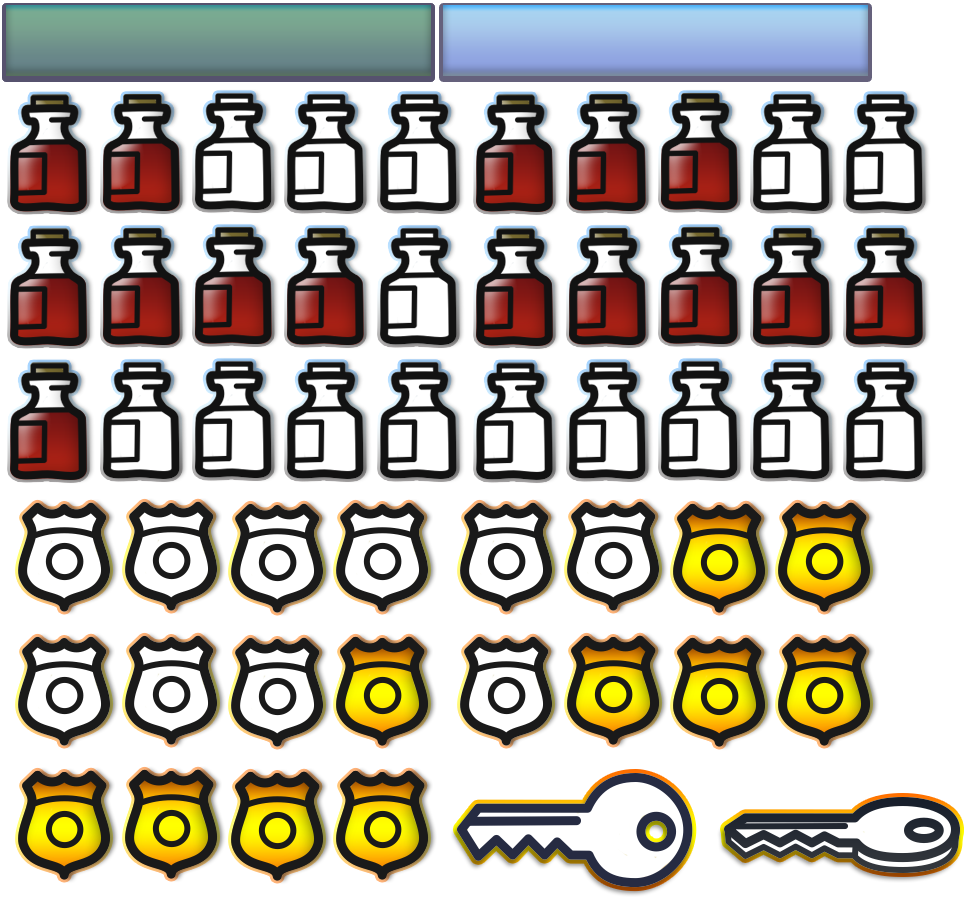
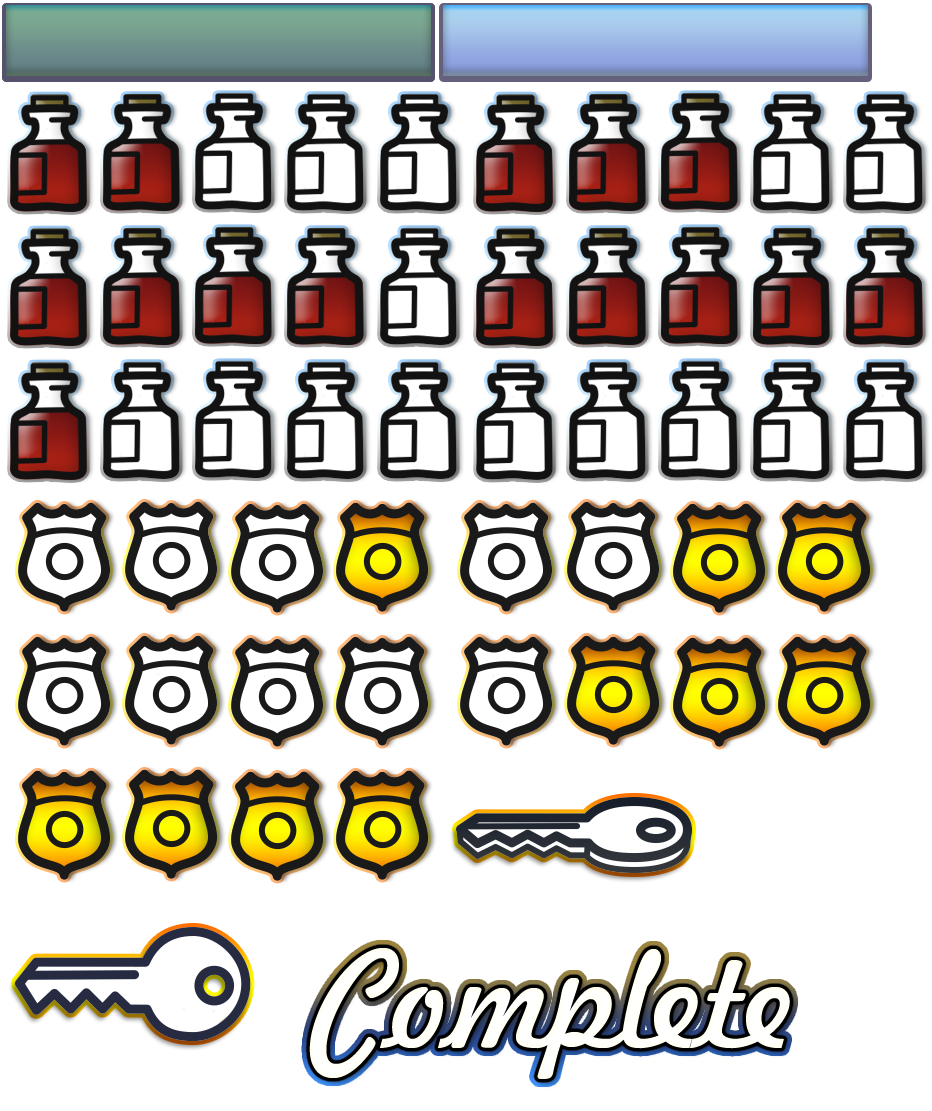
b

diff --git a/core/src/GUI/GUIGameStage.java b/core/src/GUI/GUIGameStage.java
@@ -83,9 +83,9 @@ public class GUIGameStage extends InputListener {
         button1.setName("MAIN");
         button1.addListener(this);
 
-        Texture board = new Texture(Gdx.files.internal("hurt_overlay.png"));
+        Texture textureHurt = new Texture(Gdx.files.internal("hurt_overlay.png"));
         playerHurtOverlay = new Image();
-        playerHurtOverlay.setDrawable(new TextureRegionDrawable(new TextureRegion(board)));
+        playerHurtOverlay.setDrawable(new TextureRegionDrawable(new TextureRegion(textureHurt)));
         playerHurtOverlay.setSize(stage.getWidth(),stage.getHeight());
         playerHurtOverlay.setVisible(false);
 
@@ -194,15 +194,15 @@ public class GUIGameStage extends InputListener {
         buttonRestart.setName("RESTART");
         buttonRestart.addListener(this);
 
+//        gameLostPopupTable.add(buttonRestart)
+//                .width(Value.percentWidth(0.4f, gameLostPopupTable))
+//                .height(Value.percentHeight(0.2f, gameLostPopupTable));
+//        gameLostPopupTable.row();
         gameLostPopupTable.add(buttonExit2)
                 .width(Value.percentWidth(0.4f, gameLostPopupTable))
                 .height(Value.percentHeight(0.2f, gameLostPopupTable));
-        gameLostPopupTable.row();
-        gameLostPopupTable.add(buttonRestart)
-                .width(Value.percentWidth(0.4f, gameLostPopupTable))
-                .height(Value.percentHeight(0.2f, gameLostPopupTable));
 
-        //gameLostPopupTable.background(new TextureRegionDrawable(new TextureRegion(cornersOverlay)));
+        gameLostPopupTable.background(new TextureRegionDrawable(new TextureRegion(textureHurt)));
         gameLostPopupTable.setVisible(false);
 
         //Game won popup
@@ -219,11 +219,18 @@ public class GUIGameStage extends InputListener {
         buttonNext.setName("CONTINUE");
         buttonNext.addListener(this);
 
-        gameWonPopupTable.add(buttonExit3)
+        Image completeImg = new Image();
+        completeImg.setDrawable(hudSkin.getDrawable("complete"));
+
+        gameWonPopupTable.add(completeImg)
                 .width(Value.percentWidth(0.4f, gameWonPopupTable))
                 .height(Value.percentHeight(0.2f, gameWonPopupTable));
         gameWonPopupTable.row();
         gameWonPopupTable.add(buttonNext)
+                .width(Value.percentWidth(0.4f, gameWonPopupTable))
+                .height(Value.percentHeight(0.2f, gameWonPopupTable));
+        gameWonPopupTable.row();
+        gameWonPopupTable.add(buttonExit3)
                 .width(Value.percentWidth(0.4f, gameWonPopupTable))
                 .height(Value.percentHeight(0.2f, gameWonPopupTable));
 
@@ -260,11 +267,11 @@ public class GUIGameStage extends InputListener {
     public void FadeFromBlack(float time){
         blackOverlayImage.addAction(Actions.sequence(Actions.show(), Actions.fadeOut(time), Actions.hide()));
     }
-    public void PlayerHurtOverlay(){
+    public void playerHurtOverlay(){
         playerHurtOverlay.addAction(Actions.sequence(Actions.show(), Actions.fadeIn(0.5f), Actions.fadeOut(1.5f), Actions.hide()));
     }
 
-    public void ShowGameOverPopup(){
+    public void showGameOverPopup(){
         //FadeToBlack(1);
         fadeHUD(true);
         gameLostPopupTable.setVisible(true);

diff --git a/core/src/GameObjects/PlayerObject.java b/core/src/GameObjects/PlayerObject.java
@@ -60,14 +60,13 @@ public class PlayerObject extends GameObject {
     public void onActorEvent(ActorEvent e){
         switch(e.state){
             case SHOOT:
-                //sceneManager.scene.decreasePlayerHealth(25);
                 if(health>0)health--;
-                sceneManager.scene.guiGameStage.PlayerHurtOverlay();
-                sceneManager.scene.guiGameStage.SetHealthState(health);
+                sceneManager.getScene().getUI().playerHurtOverlay();
+                sceneManager.getScene().getUI().SetHealthState(health);
                 sendEvent(new SpawnEvent(SpawnEvent.Action.ADD_ACTOR, ActorObject.ActorType.NPC_DOCTOR, 0.5f));
                 //invoke PlayerShot animation
                 if(health <= 0){
-                    sceneManager.scene.guiGameStage.ShowGameOverPopup();
+                    sceneManager.getScene().getUI().showGameOverPopup();
                 }
                 break;
             case DIE:
@@ -80,8 +79,10 @@ public class PlayerObject extends GameObject {
                     if(wantedLevel < 4) {
                         wantedLevel++;
                         wantedLevelTimer = wantedLevelTimeout;
-                        sceneManager.scene.guiGameStage.SetWantedState(wantedLevel);
+                        sceneManager.getScene().getUI().SetWantedState(wantedLevel);
                         sendEvent(new SpawnEvent(SpawnEvent.Action.ADD_ACTOR, ActorObject.ActorType.ENEMY_POLICE, (float) wantedLevel));
+                    }else if(wantedLevel == 4){
+                        sceneManager.getScene().getUI().showGameOverPopup();
                     }
                 }
                 break;
@@ -102,7 +103,7 @@ public class PlayerObject extends GameObject {
                             }else{
                                 sendEvent(new SpawnEvent(SpawnEvent.Action.REMOVE_ACTOR, ActorObject.ActorType.NPC_DOCTOR));
                             }
-                            sceneManager.scene.guiGameStage.SetHealthState(health);
+                            sceneManager.getScene().getUI().SetHealthState(health);
                             return;
                     }
                 }
@@ -134,7 +135,7 @@ public class PlayerObject extends GameObject {
         if(wantedLevelTimer <= 0 && wantedLevel > 0 && wantedLevel < 4){
             wantedLevelTimer = wantedLevelTimeout;
             wantedLevel--;
-            sceneManager.scene.guiGameStage.SetWantedState(wantedLevel);
+            sceneManager.getScene().getUI().SetWantedState(wantedLevel);
             if(wantedLevel == 0){
                 sendEvent(new SpawnEvent(SpawnEvent.Action.REMOVE_ACTOR, ActorObject.ActorType.ENEMY_POLICE));
             }

diff --git a/core/src/com/mygdx/game/Scene.java b/core/src/com/mygdx/game/Scene.java
@@ -13,11 +13,15 @@ import com.mygdx.game.GameScenes.GameScene3;
 import java.lang.reflect.Constructor;
 
 import GUI.GUIGameStage;
+import GameEvents.DoorEvent;
 import GameEvents.PlayerEvent;
+import GameEvents.SpawnEvent;
 import GameObjects.ActorObject;
 import GameObjects.BulletSplashObject;
+import GameObjects.DoorObject;
 import GameObjects.SpawnObject;
 import Utils.Error;
+import Utils.RandomDistribution;
 
 /**
  * Created by KristsPudzens on 07.08.2017.
@@ -31,6 +35,10 @@ public class Scene extends InputAdapter {
     public GUIGameStage guiGameStage = null;
     private Class nextGameSceneClass = null;
     //private GameObjective gameObjective = new GameObjective();
+    protected RandomDistribution<ActorObject.ActorType> actorDistribution = new RandomDistribution<ActorObject.ActorType>();
+
+    private float sceneCompleteTimer = 7;
+    private int sceneCompleteCounter = 0;
 
     public Scene(){
 
@@ -58,6 +66,10 @@ public class Scene extends InputAdapter {
         return null;
     }
 
+    public void setSceneFinish(){
+        if(sceneCompleteCounter == 0)sceneCompleteCounter = 5;
+    }
+
     public void onCreate(SceneManager mgr){
         sceneManager = mgr;
         guiGameStage = new GUIGameStage(this);
@@ -70,6 +82,24 @@ public class Scene extends InputAdapter {
     public void onUpdate(){
     //    gameObjective.process();
         SpawnObject.updateAndSpawn();
+
+        if(sceneCompleteCounter > 0 && sceneCompleteTimer > 0) {
+
+            sceneCompleteTimer -= sceneManager.frame_time_s;
+
+            if (sceneCompleteTimer <= 6 && sceneCompleteCounter > 4) {
+                sceneManager.sendEvent(new SpawnEvent(SpawnEvent.Action.SET_ENABLED, false));
+                sceneCompleteCounter = 4;
+            }
+            if (sceneCompleteTimer <= 1 && sceneCompleteCounter > 3) {
+                sceneManager.sendEvent(new DoorEvent(DoorEvent.Action.SET_STATE, DoorObject.State.OPEN));
+                sceneCompleteCounter = 3;
+            }
+            if (sceneCompleteTimer <= 0 && sceneCompleteCounter > 2) {
+                guiGameStage.ShowGameWonPopup();
+                sceneCompleteCounter = 2;
+            }
+        }
     }
 
     public void onDispose(){

diff --git a/core/src/com/mygdx/game/GameScenes/GameScene3.java b/core/src/com/mygdx/game/GameScenes/GameScene3.java
@@ -19,6 +19,7 @@ import GameEvents.DoorEvent;
 import GameEvents.SpawnEvent;
 import GameObjects.ActorObject;
 import GameObjects.DoorObject;
+import GameObjects.GameObjectiveObject;
 import GameObjects.PlayerObject;
 import GameObjects.SpawnObject;
 import GameObjects.StaticObject;
@@ -31,7 +32,7 @@ public class GameScene3 extends Scene {
 
    // public CameraInputController camController;
 
-    public float missionTime = 20;
+
 
     public GameScene3(){
 
@@ -109,8 +110,10 @@ public class GameScene3 extends Scene {
 
         sceneManager.addGameObject(new PlayerObject("gun.g3dj"));
 
+        sceneManager.addGameObject(new GameObjectiveObject());
 
-        setNextGameScene(GameScene3.class);
+
+        setNextGameScene(GameScene1.class);
 
 
         //getObjective().addObjective(new GameObjectiveTimer(this, 120));
@@ -121,25 +124,7 @@ public class GameScene3 extends Scene {
         super.onUpdate();
         //if(camController != null)camController.update();
 
-        missionTime -= sceneManager.frame_time_s;
 
-        int minutes = ((int)missionTime % 3600) / 60;
-        int seconds = (int)missionTime % 60;
-
-        guiGameStage.missionLabel.setText("LEFT: "+String.format("%02d:%02d", minutes, seconds));
-
-        if(missionTime <= 15) {
-            guiGameStage.missionLabel.setColor(Color.ORANGE);
-        }
-        if(missionTime <= 0){
-            guiGameStage.ShowGameWonPopup();
-        }
-        if(missionTime <= 6){
-            sceneManager.sendEvent(new SpawnEvent(SpawnEvent.Action.SET_ENABLED, false));
-        }
-        if(missionTime <= 1){
-            sceneManager.sendEvent(new DoorEvent(DoorEvent.Action.SET_STATE, DoorObject.State.OPEN));
-        }
     }
 
     public void onDispose(){

diff --git a/core/src/GameObjects/GameObjectiveObject.java b/core/src/GameObjects/GameObjectiveObject.java
@@ -9,6 +9,8 @@ import com.mygdx.game.SceneManager;
 
 public class GameObjectiveObject extends GameObject {
 
+    public float missionTime = 120;
+
     public GameObjectiveObject(){
         this.collide = false;
 
@@ -25,7 +27,16 @@ public class GameObjectiveObject extends GameObject {
 
     public void onUpdate() {
 
+        missionTime -= sceneManager.frame_time_s;
 
+        if(missionTime > 0) {
+
+            int minutes = ((int) missionTime % 3600) / 60;
+            int seconds = (int) missionTime % 60;
+
+            sceneManager.getScene().getUI().missionLabel.setText("LEFT: " + String.format("%02d:%02d", minutes, seconds));
+        }
+        if(missionTime <= 0)sceneManager.getScene().setSceneFinish();
     }
 
     public void dispose () {

diff --git a/core/src/com/mygdx/game/GameScenes/GameScene1.java b/core/src/com/mygdx/game/GameScenes/GameScene1.java
@@ -13,6 +13,7 @@ import com.mygdx.game.SceneManager;
 
 import GameObjects.ActorObject;
 import GameObjects.DoorObject;
+import GameObjects.GameObjectiveObject;
 import GameObjects.PlayerObject;
 import GameObjects.SpawnObject;
 import GameObjects.StaticObject;
@@ -99,6 +100,11 @@ public class GameScene1 extends Scene {
         sceneManager.addGameObject(new StaticObject("scene.g3dj"));
 
         sceneManager.addGameObject(new PlayerObject("gun.g3dj"));
+
+        sceneManager.addGameObject(new GameObjectiveObject());
+
+
+        setNextGameScene(GameScene2.class);
 
     }
 

diff --git a/core/src/com/mygdx/game/GameScenes/GameScene2.java b/core/src/com/mygdx/game/GameScenes/GameScene2.java
@@ -15,6 +15,7 @@ import com.mygdx.game.SceneManager;
 
 import GameObjects.AnimatedObject;
 import GameObjects.DoorObject;
+import GameObjects.GameObjectiveObject;
 import GameObjects.PlayerObject;
 import GameObjects.SpawnObject;
 import GameObjects.StaticObject;
@@ -85,6 +86,12 @@ public class GameScene2 extends Scene {
 
        sceneManager.addGameObject(new PlayerObject("gun.g3dj"));
 
+
+
+        sceneManager.addGameObject(new GameObjectiveObject());
+
+
+        setNextGameScene(GameScene3.class);
     }
 
     public void onUpdate(){

diff --git a/core/src/GUI/GUITimer.java b/core/src/GUI/GUITimer.java
@@ -1,0 +1,22 @@
+package GUI;
+
+import com.badlogic.gdx.scenes.scene2d.Group;
+import com.badlogic.gdx.scenes.scene2d.ui.Image;
+
+/**
+ * Created by T510 on 10/5/2017.
+ */
+
+public class GUITimer {
+
+    public Group actorGroup;
+    public Image clockBackground;
+
+    public GUITimer(){
+
+
+
+    }
+
+
+}

diff --git a/core/src/com/mygdx/game/SceneManager.java b/core/src/com/mygdx/game/SceneManager.java
@@ -48,6 +48,10 @@ public class SceneManager {
         guiMainStage = new GUIMainStage(this);
     }
 
+    public Scene getScene(){
+        return scene;
+    }
+
     public void setGamePaused(boolean p){
         gamePaused = p;
     }

diff --git a/core/src/com/mygdx/game/GameObjectives/GameObjectiveTimer.java b/core/src/com/mygdx/game/GameObjectives/GameObjectiveTimer.java
@@ -1,6 +1,5 @@
 package com.mygdx.game.GameObjectives;
 
-import com.mygdx.game.GameObjective;
 import com.mygdx.game.Scene;
 
 /**

diff --git a/core/src/com/mygdx/game/GameObjectives/GameObjective.java b/core/src/com/mygdx/game/GameObjectives/GameObjective.java
@@ -1,4 +1,4 @@
-package com.mygdx.game;
+package com.mygdx.game.GameObjectives;
 
 import com.badlogic.gdx.utils.Array;
 
